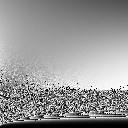
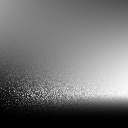
无E_mu的实时渲染

diff --git a/homework4/code/src/engine.js b/homework4/code/src/engine.js
@@ -97,7 +97,7 @@ async function GAMES202Main() {
 
 	let metallic = 1.0;
 	let Sphere0Transform = setTransform(180, 60, 0, 180, 180, 180, 0, Math.PI, 0);
-	//loadGLTF(renderer, 'assets/ball/', 'ball', 'KullaContyMaterial', Sphere0Transform, metallic, 0.15);
+	loadGLTF(renderer, 'assets/ball/', 'ball', 'KullaContyMaterial', Sphere0Transform, metallic, 0.15);
 	let Sphere1Transform = setTransform(100, 60, 0, 180, 180, 180, 0, Math.PI, 0);
 	loadGLTF(renderer, 'assets/ball/', 'ball', 'KullaContyMaterial', Sphere1Transform, metallic, 0.35);
 	let Sphere2Transform = setTransform(20, 60, 0, 180, 180, 180, 0, Math.PI, 0);
@@ -108,7 +108,7 @@ async function GAMES202Main() {
 	loadGLTF(renderer, 'assets/ball/', 'ball', 'KullaContyMaterial', Sphere4Transform, metallic, 0.95);
 
 	let Sphere5Transform = setTransform(180, -60, 0, 180, 180, 180, 0, Math.PI, 0);
-	//loadGLTF(renderer, 'assets/ball/', 'ball', 'PBRMaterial', Sphere5Transform, metallic, 0.15);
+	loadGLTF(renderer, 'assets/ball/', 'ball', 'PBRMaterial', Sphere5Transform, metallic, 0.15);
 	let Sphere6Transform = setTransform(100, -60, 0, 180, 180, 180, 0, Math.PI, 0);
 	loadGLTF(renderer, 'assets/ball/', 'ball', 'PBRMaterial', Sphere6Transform, metallic, 0.35);
 	let Sphere7Transform = setTransform(20, -60, 0, 180, 180, 180, 0, Math.PI, 0);

diff --git a/homework4/code/src/materials/KullaContyMaterial.js b/homework4/code/src/materials/KullaContyMaterial.js
@@ -6,7 +6,7 @@ class KullaContyMaterial extends Material {
             'uMetallic': { type: '1f', value: metallic },
             'uRoughness': { type: '1f', value: roughness },
             'uBRDFLut': { type: 'texture', value: BRDFLut },
-            'uEavgFLut': { type: 'texture', value: EavgLut },
+            'uEavgLut': { type: 'texture', value: EavgLut },
             
             'uCubeTexture': { type: 'CubeTexture', value: null },
             'uLightRadiance': { type: '3fv', value: light.lightRadiance },
